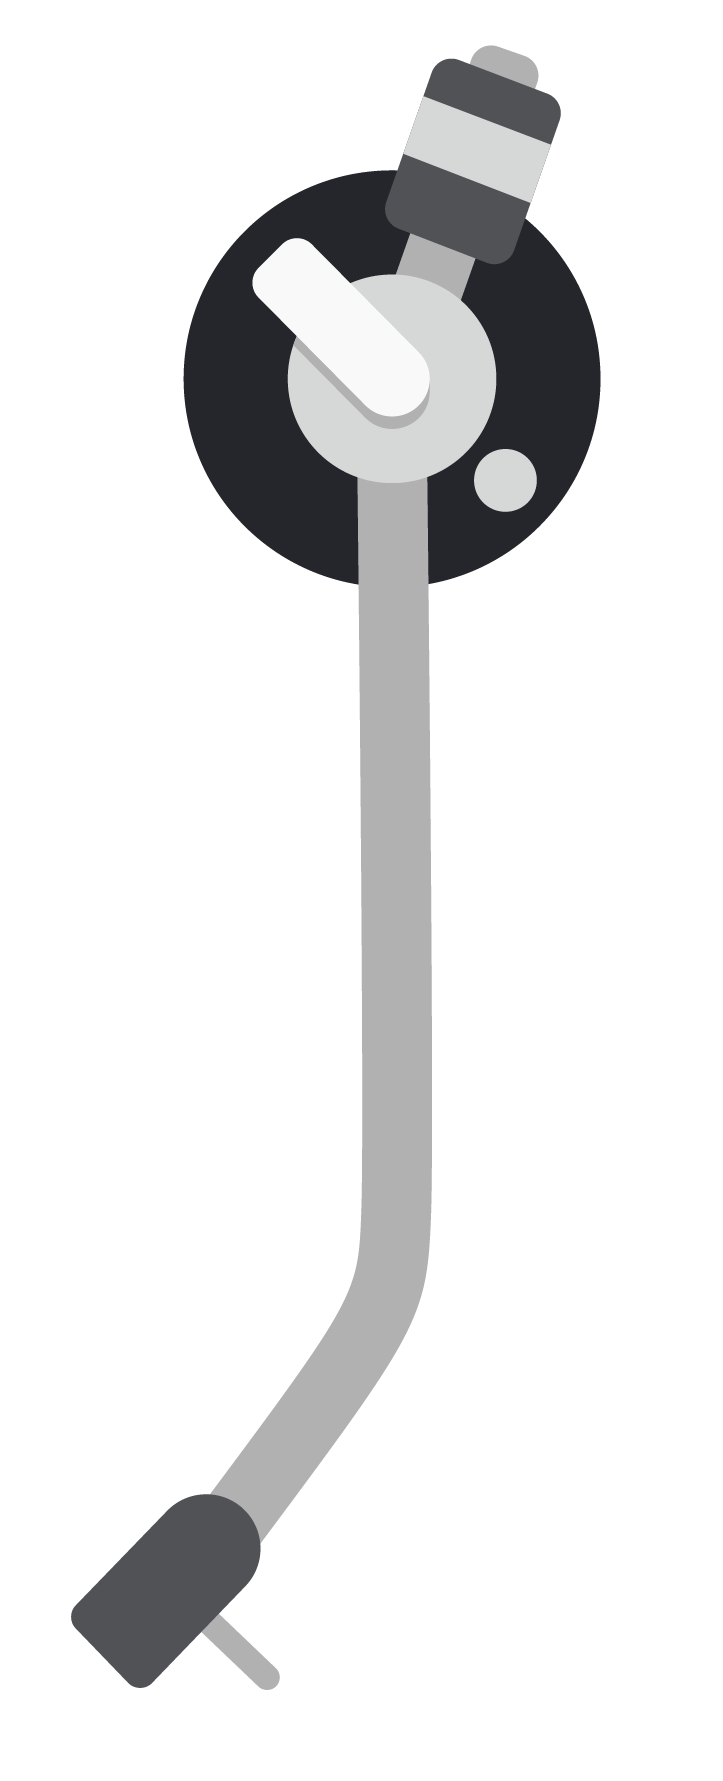
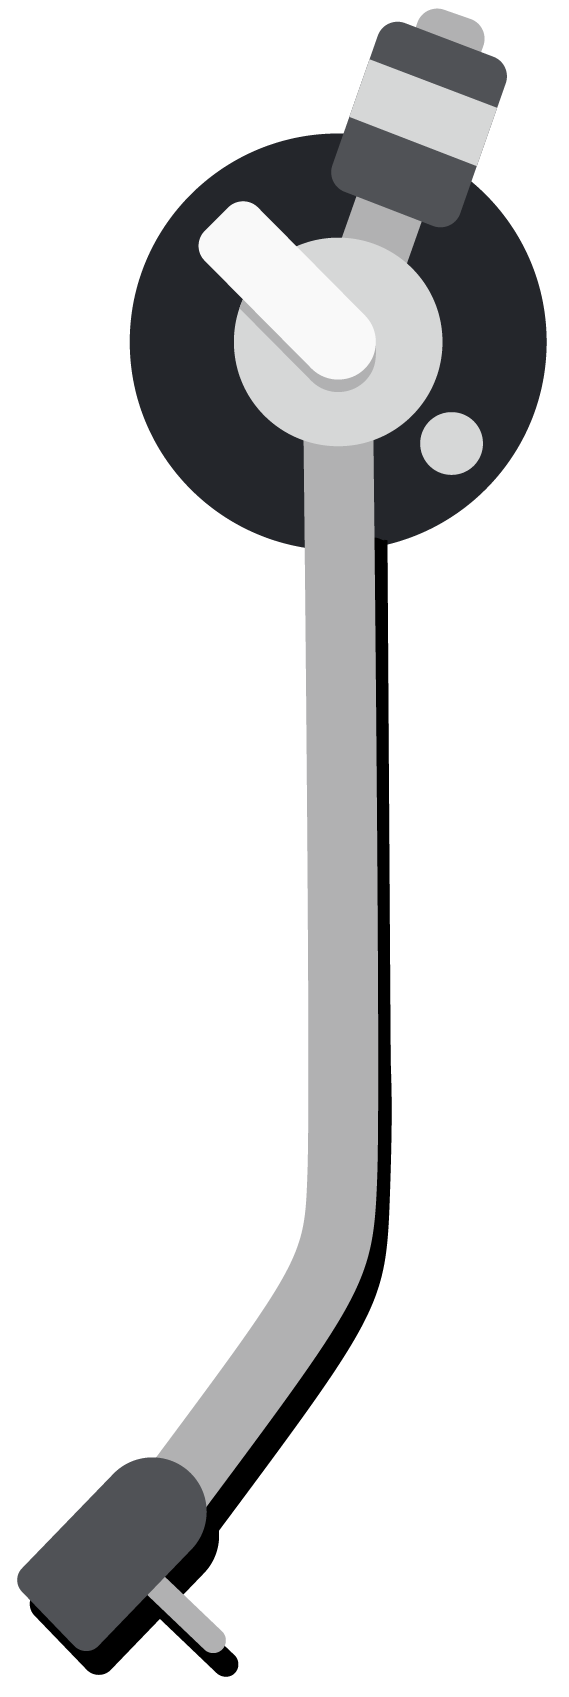
no message

Changed region(s): [[0.0299, 0.0, 0.9859, 0.9994], [0.2689, 0.2499, 0.2988, 0.2811], [0.1494, 0.8745, 0.1793, 0.9057]]

diff --git a/index.html b/index.html
@@ -100,27 +100,27 @@ h1 {
     height: 400px;
     width: auto;
     position: absolute;
-    right: 15px;
+    right: 35px;
     top: 20px;
-    transition: 1.5s ease;
+    /* transition: 1.5s ease; */
 }
 
 .needleMove{
-    transition: 1.5s ;
+    /* transition: 1.5s ; */
     transform:rotate(25deg);
     transform-origin:60% 20% ;
 }
 
 #timeTable {
-    width: 180px;
+    width: 150px;
     height: 60px;
     border-radius: 20px;
     opacity: 60%;
     font-size: 30px;
-    background-color: #f5f5f5;
+    /* background-color: #f5f5f5; */
     position: absolute;
-    left: 135px;
-    top: 221px;
+    left: 144px;
+    top: 214px;
     z-index: 1;
     display: flex;
     justify-content: center;
@@ -128,8 +128,8 @@ h1 {
 }
 
 .timecount {
-    width: 50px;
-    height: 50px;
+    width: 35px;
+    height: 30px;
     display: flex;
     justify-content: center;
     align-items: center;
@@ -139,18 +139,55 @@ h1 {
 .timecount span {
     width: 40px;
     height: 40px;
+    text-shadow: 1px 1px 3px black;
 }
 
 
+.theBtn {
+    width: 30px;
+    height: 160px;
+    position: absolute;
+    top: 265px;
+    right: 21px;
+    display: flex;
+    justify-content: center;
+    align-items: center;
+    cursor: pointer;
+}
 
+#minBtn {
+    width: 28px;
+    height: 28px;
+    background-color: rgb(209, 209, 209);
+    border-radius: 5px;
+    box-shadow: 3px 3px 2px rgb(99, 98, 98);
+    /* position: relative; */
+    transition: 0.3s;
+}
 
+/* #edit {
+    width: 40px;
+    height: 249px;
+    position: absolute;
+    right: 16px;
+    top: 220px;
+    display: flex;
+    flex-direction: column;
+    justify-content: space-between;
+    align-items: center;
+}
 
-
-
-
-
-
-
+.editBtn{
+    width: 28px;
+    height: 25px;
+    font-size: 17px;
+    text-align: center;
+    padding: auto;
+    border-radius: 5px;
+    border: none;
+    background-color: #f5f5f5;
+    color: rgb(88, 88, 88);
+} */
 
 
 
@@ -162,7 +199,7 @@ h1 {
     </style>
 
   </head>
-  <body >
+  <body>
     <div class="container">
     
       <div id="titleDiv">
@@ -179,7 +216,7 @@ h1 {
 
           <div id="timeTable">
             <div class="timecount">
-                <span>25</span>
+                <span id="minutesTimer">00</span>
             </div>
 
             <div class="timecount">
@@ -187,26 +224,78 @@ h1 {
             </div>
 
             <div class="timecount">
-                <span>00</span>
+                <span id="secondTimer">00</span>
             </div>
+        </div>
+        <!-- <div id="edit">
+            <button id="plusBtn" class="editBtn"><i class="fas fa-plus"></i></button>
+            <button id="minusBtn" class="editBtn"><i class="fas fa-minus"></i></button>
+        </div> -->
+
+        <div class="theBtn">
+            <div id ="minBtn"></div>
         </div>
       </div>
 
       
     </div>
 
-    <script type="text/javascript">
     
+
+    <script type="text/javascript">
     
     $("#vinylNeedle").click(()=>{
         $("#vinylNeedle").toggleClass("needleMove");
     });
+
+    $(".theBtn").mousedown((e)=>{
+        let y = e.offsetY;
+        let moveBtn = $("#minBtn");
+        moveBtn.css("position","absolute");
+        moveBtn.css("top",`${y}px`);
+
+        var changeMin = Math.ceil(y/2/5)*5;
+        console.log(changeMin);
+
+        $("#minutesTimer").text(changeMin);
+    });
+    
+
+    
+    
+
     
     
     
     
+
+
     
     
+
+   
+
+    
+    // var dragBtn;
+    // move();
+    // function move(){
+    //     var element = $("#minBtn");
+    //     element.css("position","absolute");
+    //     dragBtn = element;
+     
+    // dragBtn.mouseup(()=>{
+    //     dragBtn = null;
+    // })
+
+    // dragBtn.mousedown(()=>{
+    //         $(".theBtn").mousemove((e)=>{
+    //         let y = e.offsetY;
+    //         // let y2 = ;
+    //         console.log(y);
+    //         dragBtn.css("top",`${y}px`);
+    //     });
+    // });
+    // }
     </script>
 
   </body>
